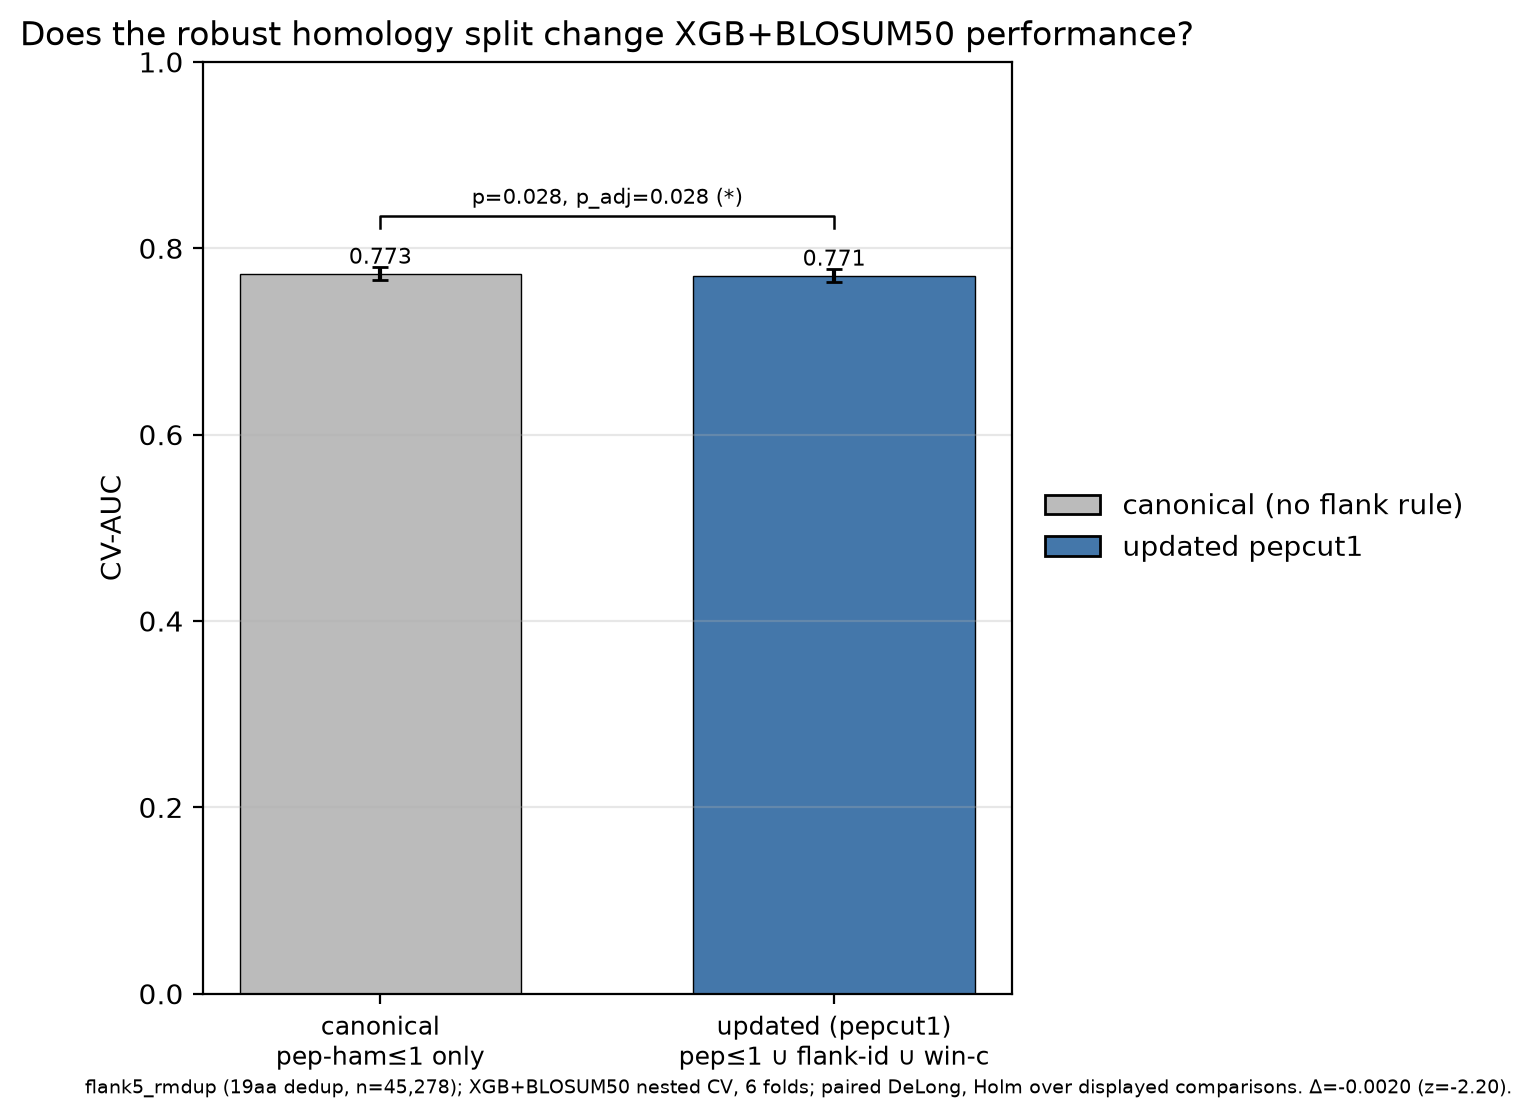
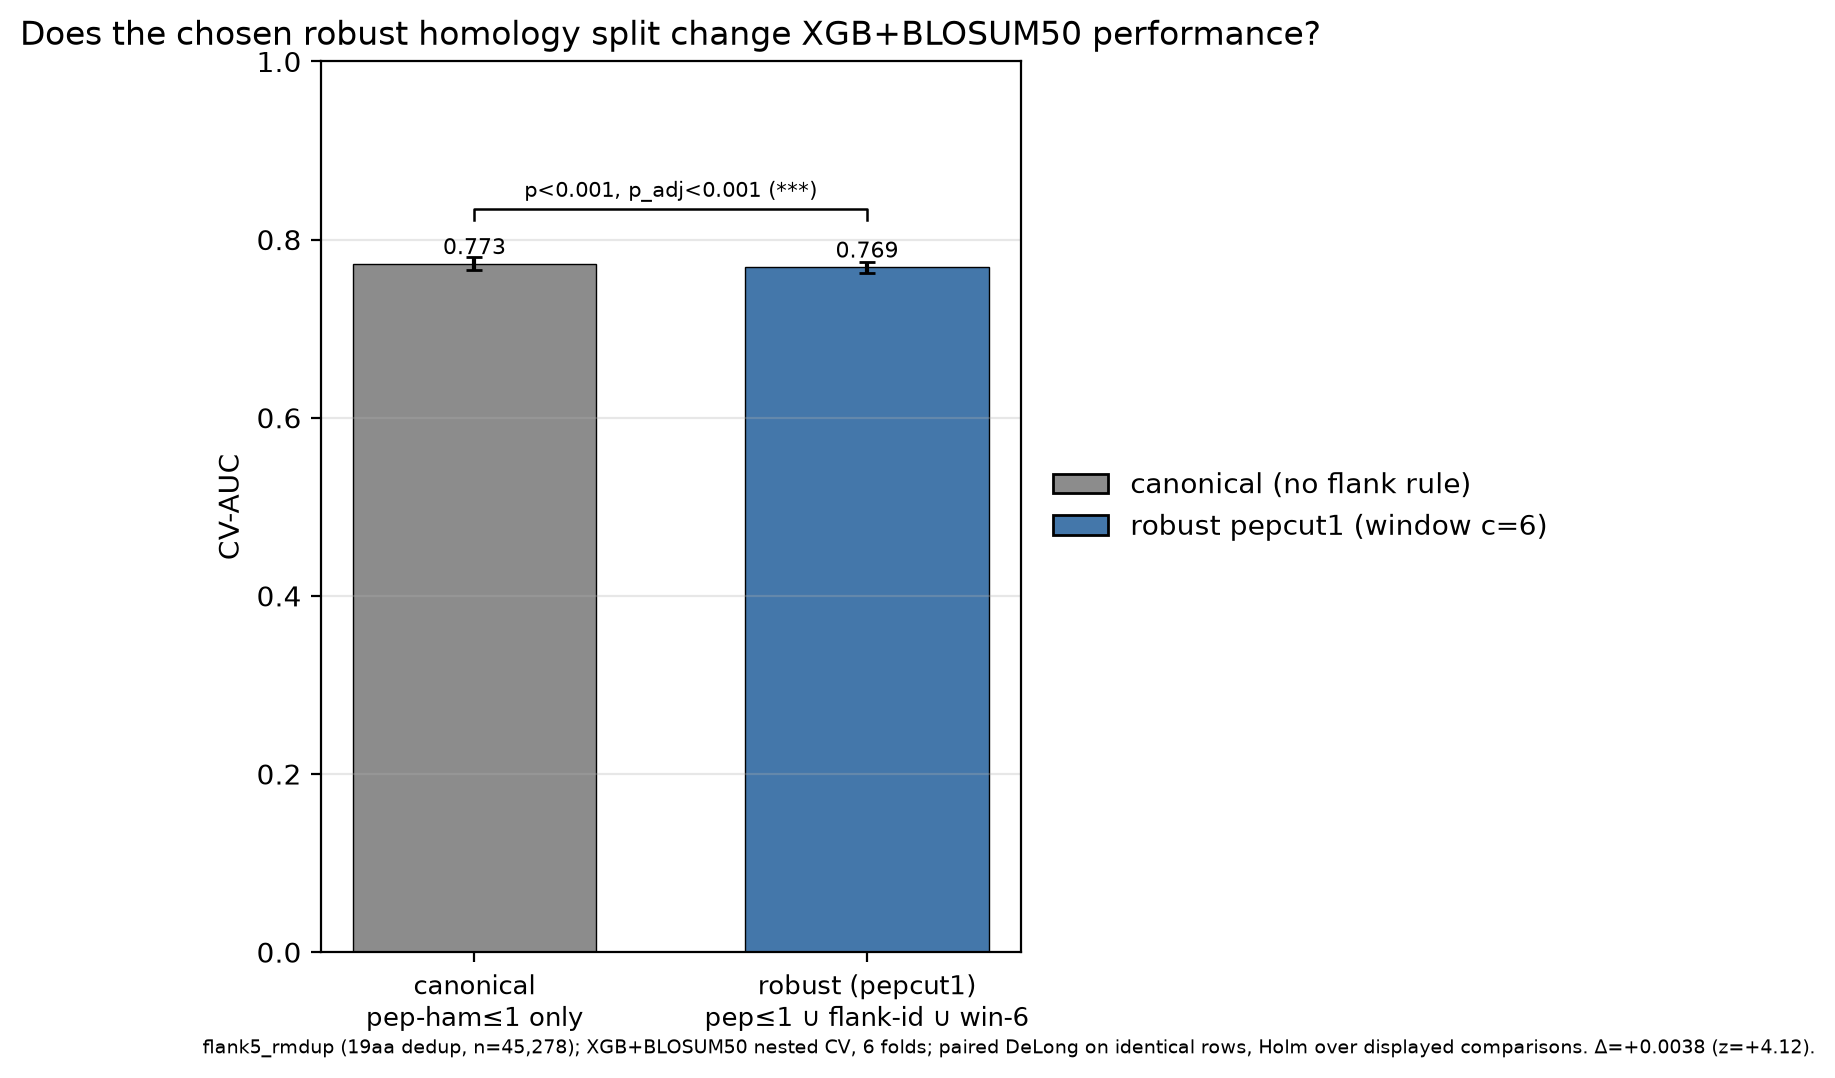
feat(pipeline): chosen split h6 as modelling default; 44_ split-rule figure vs c=6 (cost p<0.001)

Changed region(s): [[0.0614, 0.1531, 0.9817, 0.9796], [0.0, 0.0, 0.767, 0.0918], [0.0614, 0.4286, 0.092, 0.5204]]

diff --git a/src/investigation/44_split_rule_plot.py b/src/investigation/44_split_rule_plot.py
@@ -1,0 +1,122 @@
+#!/usr/bin/env python3
+"""
+44_split_rule_plot.py
+Split-rule comparison figure: canonical pep-ham<=1 split vs the CHOSEN
+robust rule (pepcut1 fixed = pep-ham<=1 ∪ identical-flank ∪ window-ham<=
+WINDOW_CUTOFF, i.e. c=6), XGB+BLOSUM50 nested CV on flank5_rmdup.
+
+Regenerates runs/r19_rmdup/plots/split_rule_auc.{png,csv} (the earlier
+version compared against the c=1 arm; the chosen rule is c=6).
+
+Usage (repo root):
+    python src/investigation/44_split_rule_plot.py
+"""
+from __future__ import annotations
+
+import glob
+import importlib.util
+import json
+import os
+import sys
+from pathlib import Path
+
+import numpy as np
+import pandas as pd
+
+PROJECT_ROOT = Path(__file__).resolve().parents[2]
+RUN_ROOT = PROJECT_ROOT / "runs" / "r19_rmdup"
+SPLIT_DIR = PROJECT_ROOT / "data" / "processed"
+
+spec = importlib.util.spec_from_file_location(
+    "d18", PROJECT_ROOT / "src" / "investigation" / "18_encodings_sweep_delong.py")
+d18 = importlib.util.module_from_spec(spec)
+spec.loader.exec_module(d18)
+
+ARMS = [
+    ("canonical pep-ham<=1 only", "canonical",
+     "df_all_with_folds_flank5_rmdup.csv", "#8c8c8c"),
+    ("robust pepcut1 (window c=6)", "h6",
+     "df_all_with_folds_flank5_rmdup_updated_h6_pepcut1.csv", "#4477AA"),
+]
+
+
+def newest_json(run: str) -> Path:
+    hits = sorted(glob.glob(str(RUN_ROOT / run / "models" / "flat" /
+                                "cv_results_*.json")), key=os.path.getmtime)
+    if not hits:
+        sys.exit(f"FATAL: no cv_results under {RUN_ROOT / run}")
+    return Path(hits[-1])
+
+
+def oof_aligned(json_path: Path, split_path: Path):
+    fold = pd.read_csv(split_path, usecols=["fold"])["fold"].values
+    lab = pd.read_csv(split_path, usecols=["label"])["label"].values
+    ev = json.load(open(json_path))["outer_val_predictions"]
+    y = np.empty(len(fold), dtype=int)
+    p = np.empty(len(fold))
+    for fk, e in ev.items():
+        pos = np.where(fold == int(fk))[0]
+        yt = np.asarray(e["y_true"])
+        if len(pos) != len(yt) or not (yt == lab[pos]).all():
+            sys.exit(f"FATAL: fold {fk} in {json_path.name} not in split order")
+        y[pos] = yt
+        p[pos] = np.asarray(e["y_prob"])
+    return y, p
+
+
+def main() -> None:
+    import matplotlib
+    matplotlib.use("Agg")
+    import matplotlib.pyplot as plt
+
+    xs, vals, errs, runs, splits = [], [], [], {}, {}
+    for x, (label, run, split_name, _) in enumerate(ARMS):
+        j = newest_json(run)
+        runs[x] = j
+        splits[x] = SPLIT_DIR / split_name
+        s = json.load(open(j))["cv_summary"]["auc_roc"]
+        m, sd = float(s["mean"]), float(s["std"])
+        xs.append(x)
+        vals.append(m)
+        errs.append(sd)
+        print(f"{label}: AUC {m:.4f} ± {sd:.4f}  ({j.name})")
+
+    y0, p0 = oof_aligned(runs[0], splits[0])
+    y1, p1 = oof_aligned(runs[1], splits[1])
+    if not (y0 == y1).all():
+        sys.exit("FATAL: labels differ between arms (row order?)")
+    _, _, delta, _, z, p = d18.delong_full(y0, p0, p1)
+    print(f"DeLong canonical vs c=6: delta={delta:+.4f} z={z:+.2f} p={p:.4f}")
+
+    color0, color1 = ARMS[0][3], ARMS[1][3]
+    fig, ax = plt.subplots(figsize=(7.0, 5.4))
+    d18._padmode_bars(ax, xs, vals, errs, [color0, color1])
+    p_adj = d18.holm_adjust(np.array([p]))[0]
+    print(f"  Holm (1 pair): p_adj={p_adj:.4f} {d18.stars(p_adj)}")
+    d18._padmode_brackets(
+        ax, [(0, 1, p, p_adj)], vals)
+    ax.set_xticks(xs)
+    ax.set_xticklabels(["canonical\npep-ham≤1 only", "robust (pepcut1)\n"
+                        "pep≤1 ∪ flank-id ∪ win-6"], fontsize=9.5)
+    d18._finish_padmode(
+        fig, ax,
+        "Does the chosen robust homology split change XGB+BLOSUM50 performance?",
+        RUN_ROOT / "plots" / "split_rule_auc.png",
+        [("canonical (no flank rule)", color0),
+         ("robust pepcut1 (window c=6)", color1)],
+        footnote=("flank5_rmdup (19aa dedup, n=45,278); XGB+BLOSUM50 nested CV, 6 folds; "
+                  "paired DeLong on identical rows, Holm over displayed comparisons. "
+                  f"Δ={delta:+.4f} (z={z:+.2f})."))
+
+    out_csv = RUN_ROOT / "plots" / "split_rule_auc.csv"
+    with open(out_csv, "w") as f:
+        f.write("rule,auc_mean,auc_std,split_file,json\n")
+        for x, (label, run, split_name, _) in enumerate(ARMS):
+            f.write(f'"{label}",{vals[x]:.6f},{errs[x]:.6f},{split_name},'
+                    f"{runs[x].name}\n")
+        f.write(f"de_long_canonical_vs_c6,,,{delta:.6f},{p:.6f}\n")
+    print(f"Saved: {out_csv}")
+
+
+if __name__ == "__main__":
+    main()

diff --git a/src/pipeline/python/config.py b/src/pipeline/python/config.py
@@ -644,6 +644,13 @@ WINDOW_CUTOFF = 6    # context-mode default: chosen window cutoff. Mechanistic
                      # Supporting: AUC flat (c6 dip raw p=.043, ns after Holm),
                      # fold-audit clean at c6, marginal-capture knee at 5.
 
+# Read default for modelling: the CHOSEN robust split (pepcut1 + window
+# WINDOW_CUTOFF). SPLIT_DATA_PATH stays the 01_datasplit write target and
+# naming stem; THESIS_SPLIT env overrides.
+THESIS_SPLIT = os.environ.get("THESIS_SPLIT") or None
+DEFAULT_SPLIT_PATH = THESIS_SPLIT or SPLIT_DATA_PATH.with_name(
+    f"{SPLIT_DATA_PATH.stem}_updated_h{WINDOW_CUTOFF}_pepcut1.csv")
+
 # ──────────────────────────────────────────────
 # FEATURE COMPONENTS (atomic building blocks)
 # ──────────────────────────────────────────────

diff --git a/src/investigation/43_window_distance_capture.py b/src/investigation/43_window_distance_capture.py
@@ -9,7 +9,7 @@ captured all homologous window pairs, so that raising c further prevents
 almost no additional leakage while coarsening the folds?
 
 Pool: all unique full_context windows of the THESIS split
-(df_all_with_folds_flank5_rmdup_updated_h5_pepcut1.csv), all pairs at
+(df_all_with_folds_flank5_rmdup_updated_h6_pepcut1.csv), all pairs at
 window-Hamming distance d <= 9 (pigeonhole index, provably complete).
 
 Per cutoff c = 1..9:
@@ -45,7 +45,7 @@ sys.path.insert(0, str(PROJECT_ROOT / "src" / "pipeline" / "python"))
 
 RUN_ROOT = PROJECT_ROOT / "runs" / "r19_rmdup"
 THESIS_SPLIT = (PROJECT_ROOT / "data" / "processed" /
-                "df_all_with_folds_flank5_rmdup_updated_h5_pepcut1.csv")
+                "df_all_with_folds_flank5_rmdup_updated_h6_pepcut1.csv")
 CANON_SPLIT = (PROJECT_ROOT / "data" / "processed" /
                "df_all_with_folds_flank5_rmdup.csv")
 MAX_D = 9

diff --git a/src/pipeline/python/04_modelling.py b/src/pipeline/python/04_modelling.py
@@ -37,7 +37,7 @@ import pickle
 from pathlib import Path
 
 from config import (
-    SPLIT_DATA_PATH, LOG_DIR, MODEL_DIR, PROJECT_ROOT,
+    SPLIT_DATA_PATH, DEFAULT_SPLIT_PATH, LOG_DIR, MODEL_DIR, PROJECT_ROOT,
     N_CV_FOLDS, HELD_OUT_INDEX,
     PEPTIDE_COL, LABEL_COL, FOLD_COL,
     POSITION_AA_COLS, EMBEDDING_REGIONS, EMBEDDING_SOURCES,
@@ -1770,7 +1770,7 @@ if __name__ == "__main__":
     print(f"  Pool:            {pool if pool is not None else '-'}"
           + (f" ({pool_mask})" if pool is not None else ""))
     print(f"  Components:      {feat_cfg['components']}")
-    split_path = Path(args.split) if args.split else Path(SPLIT_DATA_PATH)
+    split_path = Path(args.split) if args.split else Path(DEFAULT_SPLIT_PATH)
     print(f"  Data path:       {split_path}"
           + ("  (CLI override)" if args.split else ""))
     print(f"  Log path:        {LOG_PATH}")
